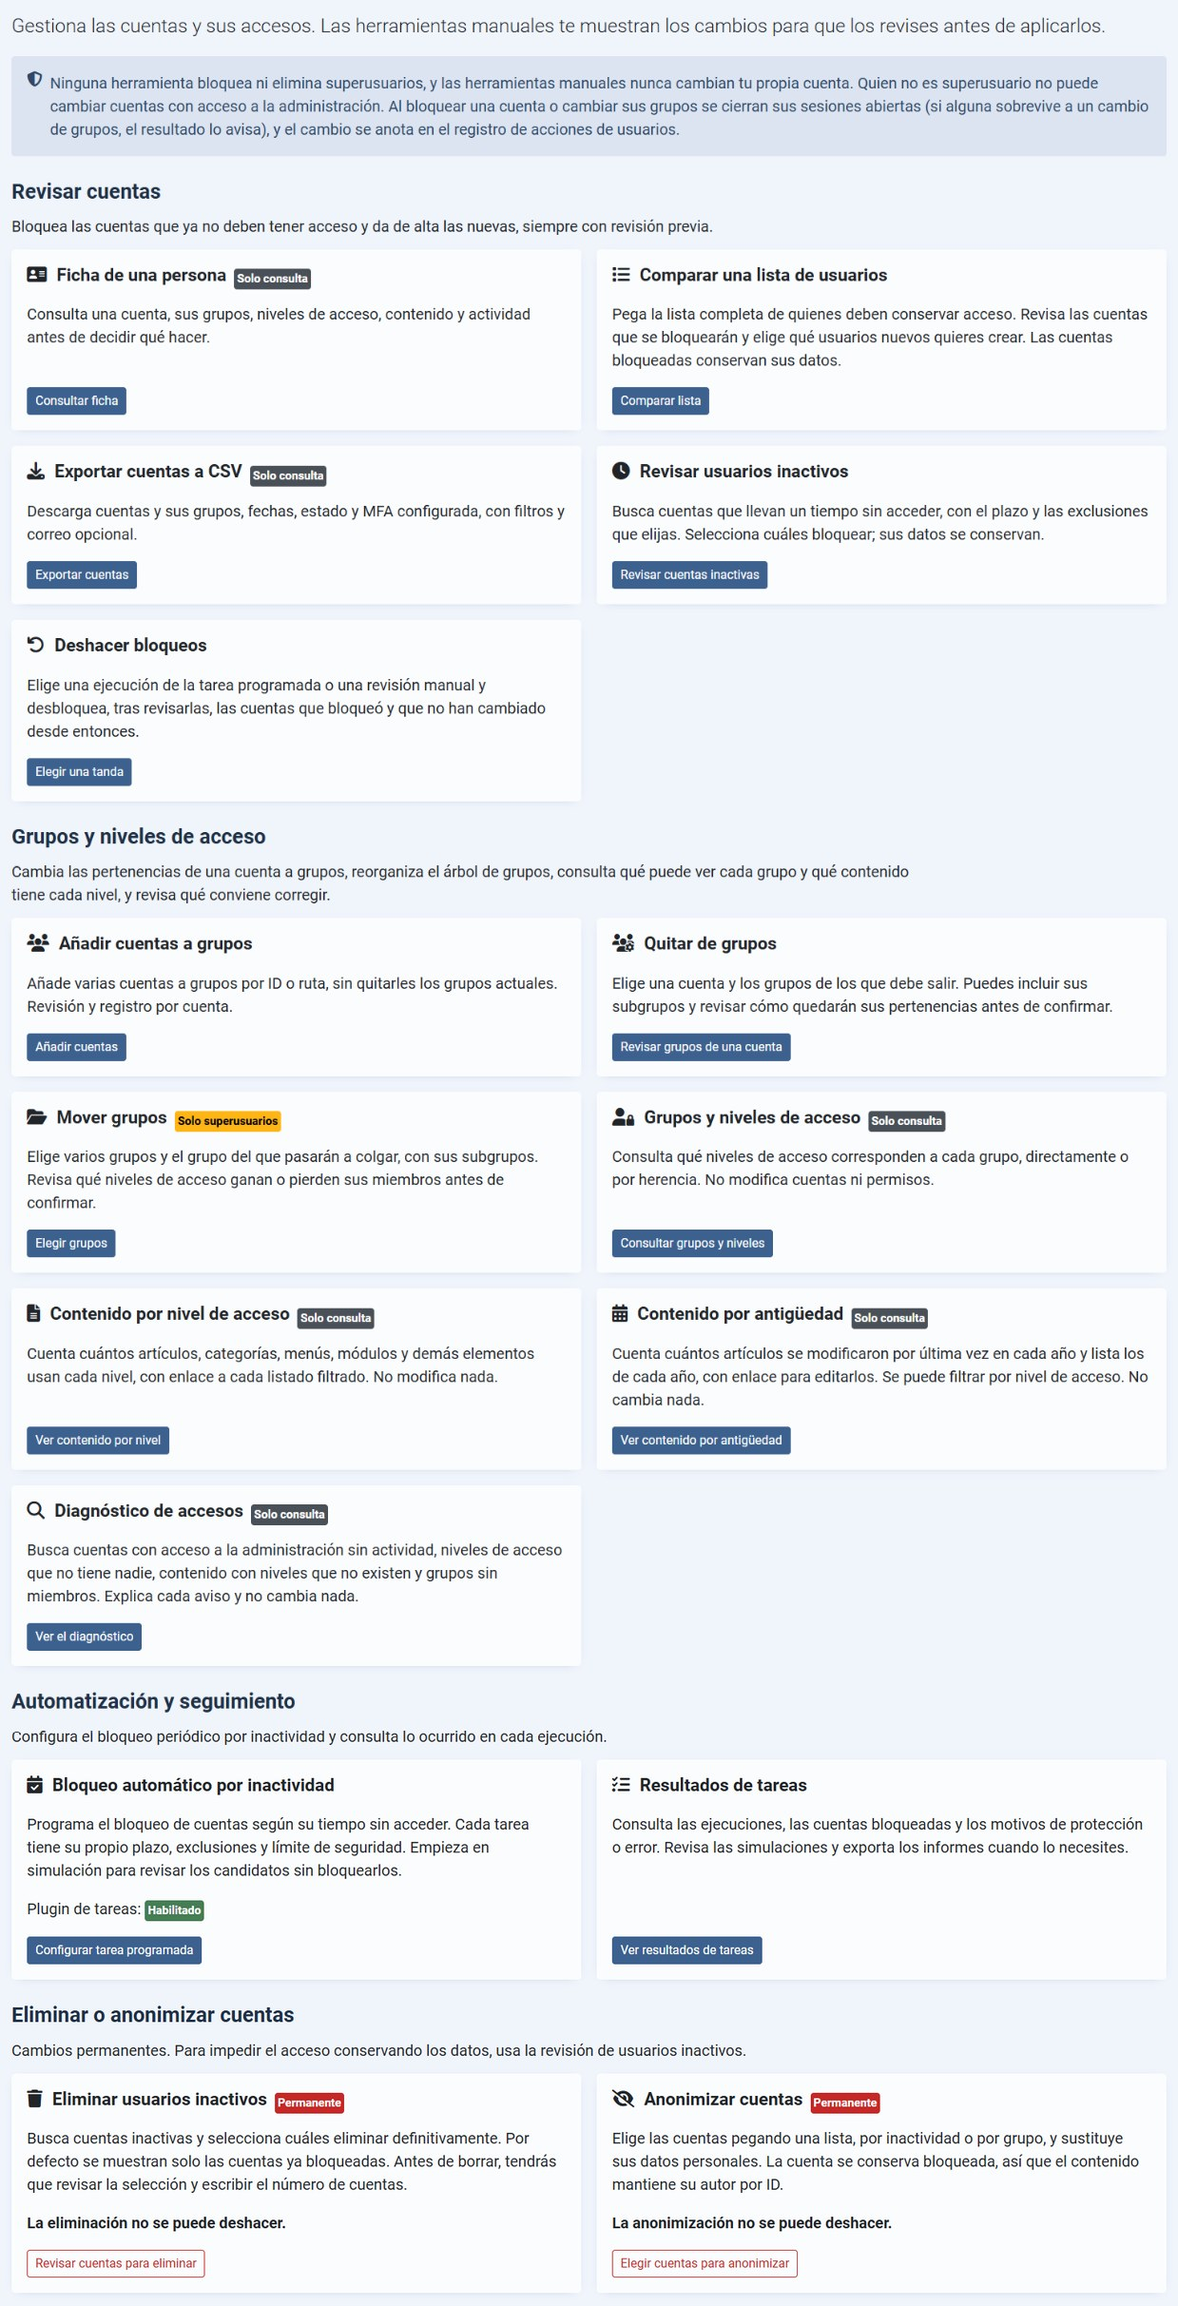
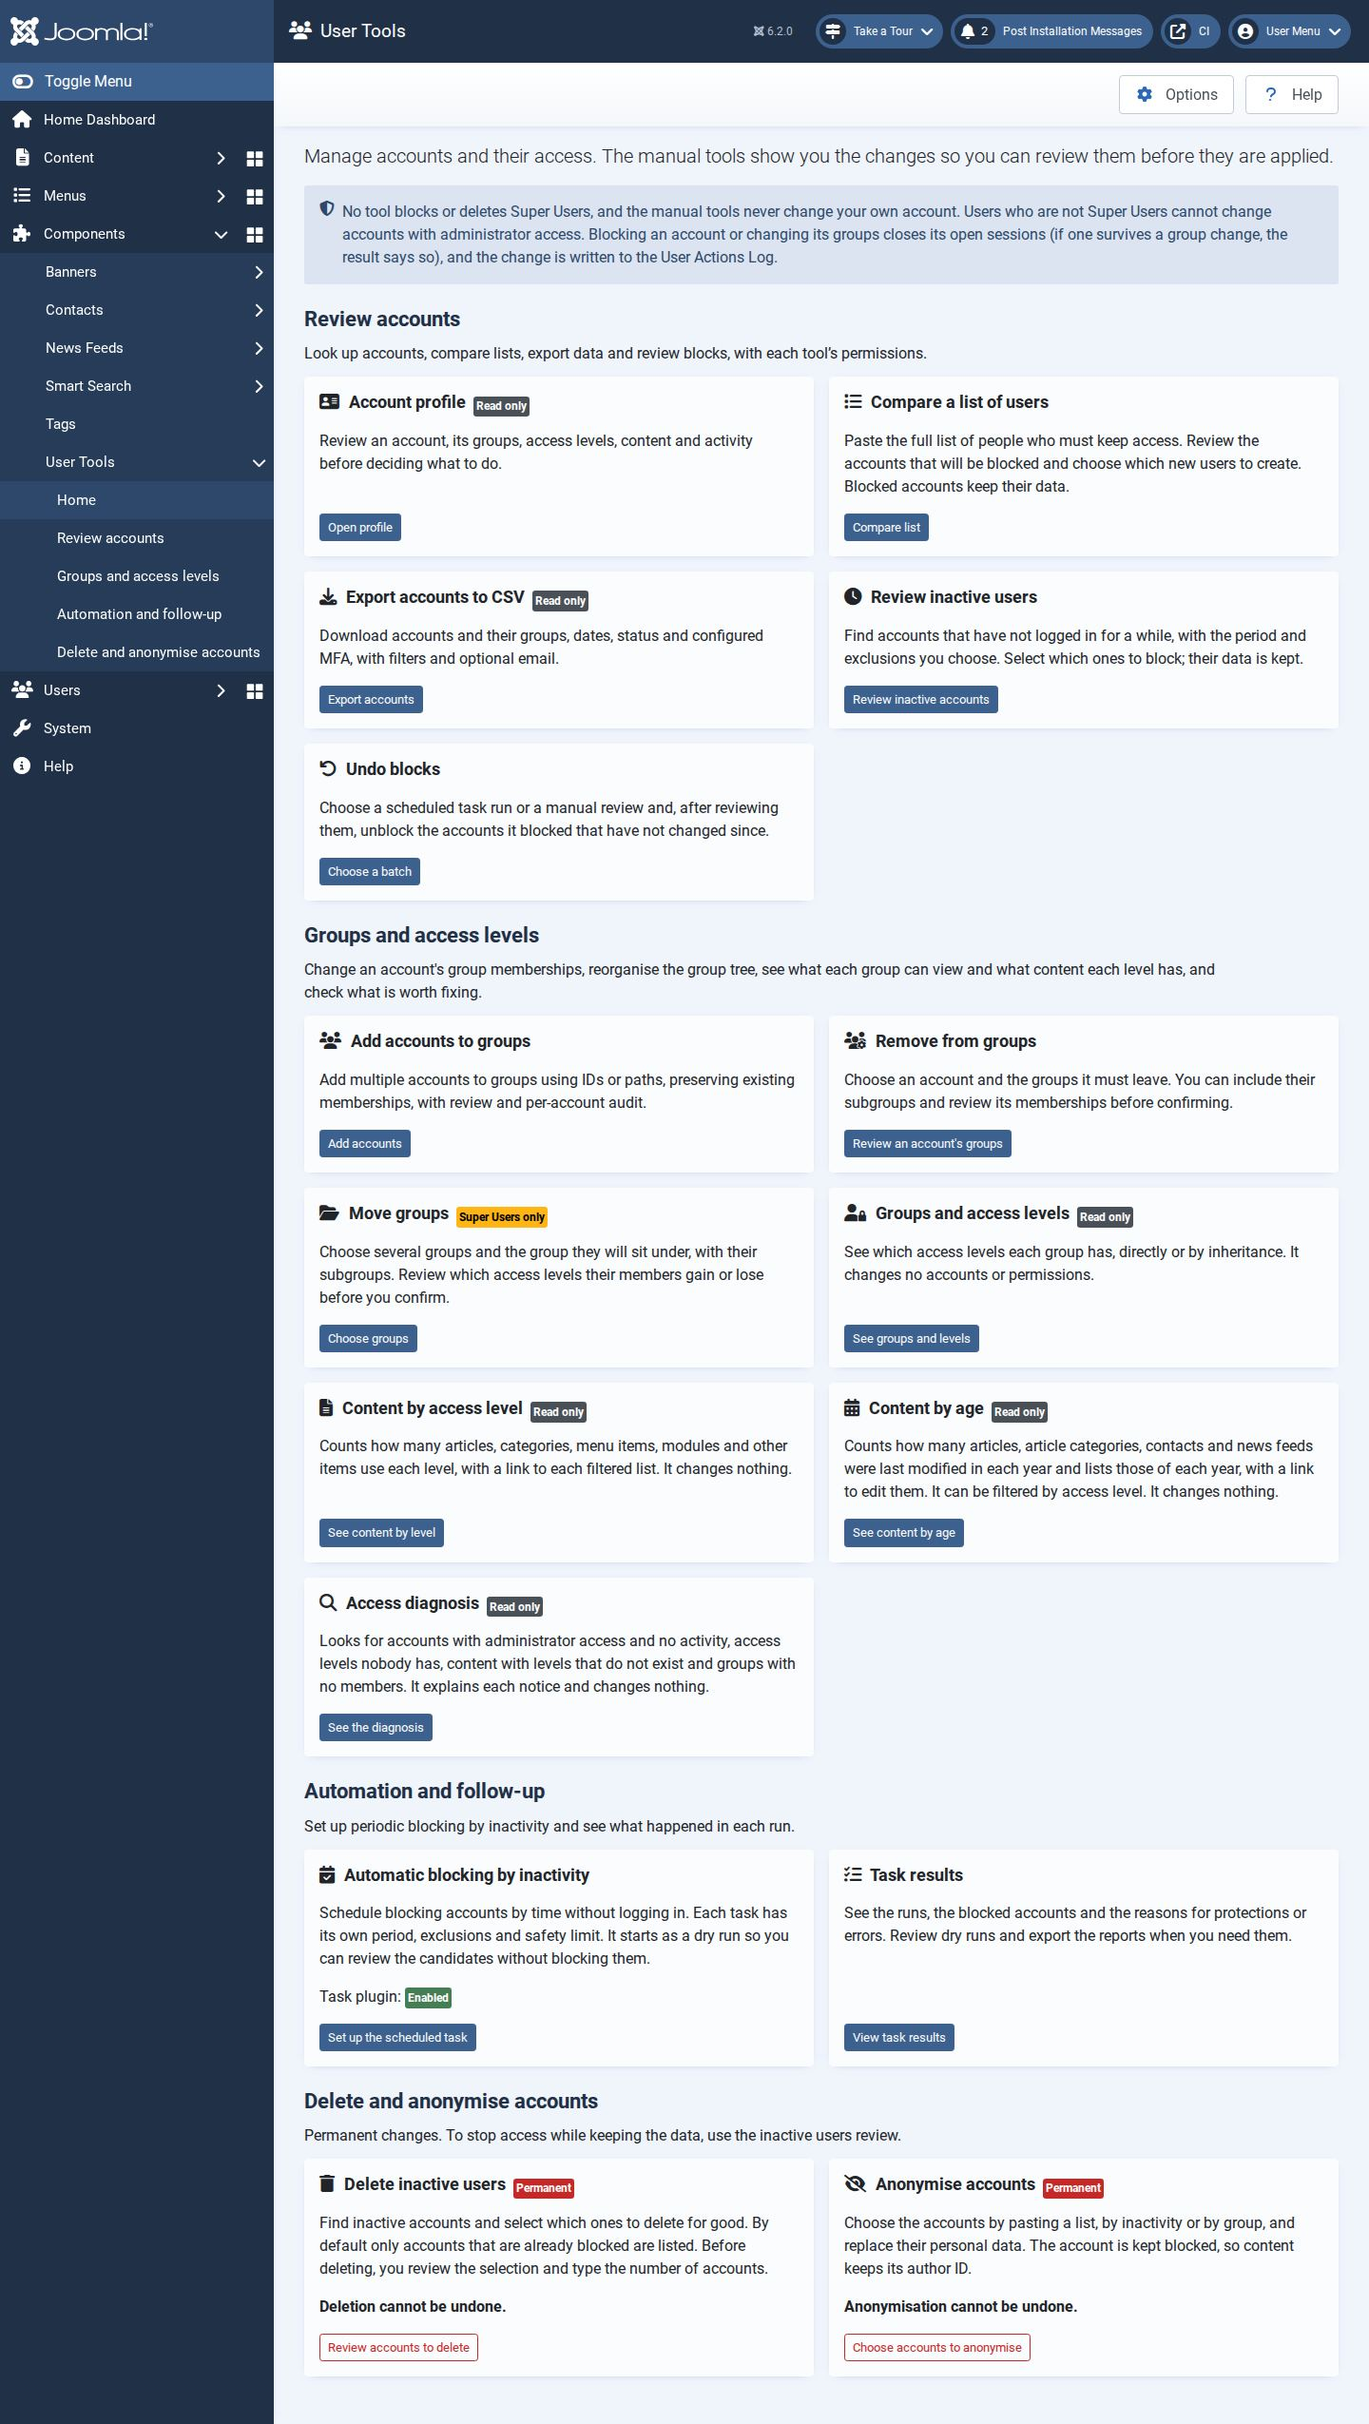
Refresh real navigation captures and bilingual galleries

diff --git a/docs/capturas.md b/docs/capturas.md
@@ -4,9 +4,21 @@
 
 [Volver al README](../README.md)
 
-Estas capturas compartidas muestran la interfaz en español en Joomla 6.2.0. Cada pie indica la versión en que se hizo la captura cuando es reciente: las de eliminación son de 2026.10.5, las de quitar de grupos de 2026.10.9 y 2026.10.16, la revisión de la comparación y la de grupos y niveles de acceso de 2026.10.11, la de contenido por nivel de acceso de 2026.10.12, las de diagnóstico de accesos y la lista de contenido por antigüedad de 2026.10.15, las de mover grupos de 2026.10.16, las del panel de Usuarios, añadir cuentas a grupos, exportar cuentas y deshacer bloqueos de 2026.10.19, la portada y las de la ficha de una persona de 2026.10.20, y la tabla de contenido por antigüedad con sus cuatro tipos y el recorrido guiado, de la versión siguiente a 2026.10.20. Las que no indican versión corresponden a una interfaz anterior y pueden diferir de la actual. Para las opciones y el comportamiento vigentes, consulta el [README](../README.md) y las [preguntas frecuentes](../FAQ.md).
+Las capturas anteriores muestran la interfaz en español en Joomla 6.2.0. Cada pie indica la versión en que se hizo la captura cuando es reciente: las de eliminación son de 2026.10.5, las de quitar de grupos de 2026.10.9 y 2026.10.16, la revisión de la comparación y la de grupos y niveles de acceso de 2026.10.11, la de contenido por nivel de acceso de 2026.10.12, las de diagnóstico de accesos y la lista de contenido por antigüedad de 2026.10.15, las de mover grupos de 2026.10.16, las de añadir cuentas a grupos, exportar cuentas y deshacer bloqueos de 2026.10.19, las de la ficha de una persona de 2026.10.20, y la tabla de contenido por antigüedad con sus cuatro tipos y el recorrido guiado, de la versión siguiente a 2026.10.20. Las que no indican versión corresponden a una interfaz anterior y pueden diferir de la actual. Para las opciones y el comportamiento vigentes, consulta el [README](../README.md) y las [preguntas frecuentes](../FAQ.md).
 
-![Portada de User Tools agrupada en secciones: revisar cuentas (con la ficha de una persona, la exportación y deshacer bloqueos), grupos y niveles de acceso, automatización y seguimiento, y eliminar o anonimizar cuentas (2026.10.20)](screenshots/01-portada.jpg)
+La portada, las cuatro categorías y el panel de Usuarios se capturaron el **31 de octubre de 2026** en un Joomla 6.2.0 desechable de CI, con **interfaz en inglés** y datos ficticios, sobre los cambios de la PR #57 posteriores a 2026.10.20. Las mismas imágenes se comparten en ambas galerías. No representan una nueva versión publicada.
+
+La CI comprueba el orden de teclado, el despliegue del menú y la categoría activa. Se revisaron las imágenes con texto al 200 %, preferencia oscura y anchura de 390 px. Las tarjetas caben a 390 px, pero la cabecera general de Joomla genera un ancho de documento de 600 px. No se ha alterado la plantilla para ocultarlo. Esto no acredita conformidad WCAG ni sustituye pruebas con lector de pantalla.
+
+![Portada completa y menú nativo de User Tools, con las cuatro categorías y todas las herramientas permitidas (inglés, PR #57)](screenshots/01-portada.jpg)
+
+![Revisar cuentas: categoría activa y sus cinco herramientas (inglés, PR #57)](screenshots/30-menu-cuentas.jpg)
+
+![Grupos y niveles de acceso: categoría activa y sus siete herramientas (inglés, PR #57)](screenshots/31-menu-grupos.jpg)
+
+![Automatización y seguimiento: configuración de tareas y resultados (inglés, PR #57)](screenshots/32-menu-automatizacion.jpg)
+
+![Eliminar y anonimizar cuentas: advertencias permanentes visibles y categoría activa (inglés, PR #57)](screenshots/33-menu-eliminacion.jpg)
 
 ![Ficha de una persona: datos de la cuenta, grupos en su árbol con el grupo intermedio, niveles de acceso efectivos y por qué, contenido creado, registro de acciones reciente y enlaces a las herramientas (2026.10.20)](screenshots/28-ficha-persona.jpg)
 
@@ -50,7 +62,7 @@ Estas capturas compartidas muestran la interfaz en español en Joomla 6.2.0. Cad
 
 ![Detalle de un informe de tarea](screenshots/10-informe-tarea.jpg)
 
-![Módulo User Tools en el panel de Usuarios: cuentas para revisar con enlace a su revisión, tareas con su modo, resultado y fechas, y accesos directos a las herramientas permitidas (2026.10.19)](screenshots/13-panel-usuarios.jpg)
+![Panel de Usuarios con resumen de cuentas, tareas y accesos agrupados por el catálogo compartido (inglés, PR #57)](screenshots/13-panel-usuarios.jpg)
 
 ![Grupos y niveles de acceso: matriz de grupos por nivel, exportación CSV y resumen por nivel (2026.10.11)](screenshots/14-grupos-niveles.jpg)
 

diff --git a/docs/screenshots.en.md b/docs/screenshots.en.md
@@ -4,9 +4,21 @@
 
 [Back to the README](../README.en.md)
 
-These shared screenshots show the Spanish interface on Joomla 6.2.0. Each caption gives the version the screenshot was taken with when it is recent: deletion in 2026.10.5, remove from groups in 2026.10.9 and 2026.10.16, the comparison review and groups and access levels in 2026.10.11, content by access level in 2026.10.12, access diagnosis and the content by age list in 2026.10.15, move groups in 2026.10.16, the Users dashboard, add accounts to groups, export accounts and undo blocks in 2026.10.19, the home screen and the account profile in 2026.10.20, and the content by age table with its four kinds and the guided tour in the version after 2026.10.20. Screenshots without a version show an older interface and may differ from the current one. For current options and behaviour, see the [README](../README.en.md) and [FAQ](../FAQ.en.md).
+The earlier screenshots show the Spanish interface on Joomla 6.2.0. Each caption gives the version the screenshot was taken with when it is recent: deletion in 2026.10.5, remove from groups in 2026.10.9 and 2026.10.16, the comparison review and groups and access levels in 2026.10.11, content by access level in 2026.10.12, access diagnosis and the content by age list in 2026.10.15, move groups in 2026.10.16, add accounts to groups, export accounts and undo blocks in 2026.10.19, the account profile in 2026.10.20, and the content by age table with its four kinds and the guided tour in the version after 2026.10.20. Screenshots without a version show an older interface and may differ from the current one. For current options and behaviour, see the [README](../README.en.md) and [FAQ](../FAQ.en.md).
 
-![User Tools home screen grouped into sections: review accounts (with the account profile, export and undo blocks), groups and access levels, automation and monitoring, and delete or anonymise accounts (2026.10.20, Spanish interface)](screenshots/01-portada.jpg)
+The home screen, four categories and Users dashboard were captured on **31 October 2026** on the disposable Joomla 6.2.0 CI site, with the **English interface** and fictional data, using the changes in PR #57 after 2026.10.20. Both galleries share these images. They do not represent a new published release.
+
+CI checks keyboard order, menu expansion and the active category. Images were inspected at 200% text size, with a dark preference and at 390 px width. The cards fit at 390 px, but Joomla’s overall header produces a document width of 600 px. The template has not been altered to hide this. This does not establish WCAG conformance or replace screen-reader testing.
+
+![Complete User Tools home and native menu, with four categories and all permitted tools (English, PR #57)](screenshots/01-portada.jpg)
+
+![Review accounts: active category and its five tools (English, PR #57)](screenshots/30-menu-cuentas.jpg)
+
+![Groups and access levels: active category and its seven tools (English, PR #57)](screenshots/31-menu-grupos.jpg)
+
+![Automation and follow-up: task configuration and results (English, PR #57)](screenshots/32-menu-automatizacion.jpg)
+
+![Delete and anonymise accounts: visible permanent warnings and active category (English, PR #57)](screenshots/33-menu-eliminacion.jpg)
 
 ![Account profile: account details, groups in their tree with the intermediate group, effective access levels and why, authored content, recent action log and links to the tools (2026.10.20, Spanish interface)](screenshots/28-ficha-persona.jpg)
 
@@ -50,7 +62,7 @@ These shared screenshots show the Spanish interface on Joomla 6.2.0. Each captio
 
 ![Task report details](screenshots/10-informe-tarea.jpg)
 
-![User Tools module on the Users dashboard: accounts to review with a link to their review, tasks with their mode, result and dates, and shortcuts to the tools you may use (2026.10.19, Spanish interface)](screenshots/13-panel-usuarios.jpg)
+![Users dashboard with account summary, tasks and shortcuts grouped by the shared catalogue (English, PR #57)](screenshots/13-panel-usuarios.jpg)
 
 ![Groups and access levels: groups by level matrix, CSV export and summary by level (2026.10.11, Spanish interface)](screenshots/14-grupos-niveles.jpg)
 

diff --git a/README.md b/README.md
@@ -102,6 +102,8 @@ Al abrir una herramienta, revisión, resultado o informe, su categoría permanec
 
 El paquete incluye **Sistema - User Tools**, que integra el filtrado y la categoría activa con el menú de Joomla. Se habilita al instalarlo por primera vez, también al actualizar desde una versión sin ese plugin. Si después lo deshabilitas, las siguientes actualizaciones respetan tu decisión y la portada avisa. Para recuperar el filtrado y la categoría activa, habilítalo en **Sistema → Gestionar → Plugins**. Los permisos de las pantallas siguen comprobándose en el servidor.
 
+Las [capturas reales de la navegación](docs/capturas.md) muestran la portada, las cuatro categorías y el panel en inglés, tomadas en el Joomla desechable de CI.
+
 ## Ficha de una persona
 
 Desde la portada, abre **Ficha de una persona** y busca por usuario o correo electrónico, sin distinguir mayúsculas. También se puede abrir una cuenta por su ID. La consulta requiere el permiso propio `usertools.profile` y no guarda cambios en la cuenta, sus grupos ni los borradores de otras herramientas.
@@ -259,7 +261,7 @@ Las cifras usan exactamente las mismas reglas que las herramientas, así que coi
 
 El módulo respeta los permisos: solo lo ve quien puede acceder a User Tools, las cifras solo aparecen a quien tiene permiso de revisar o eliminar inactivos, y las tareas solo a quien puede ver sus resultados. Se configura como cualquier módulo de administración (Contenido → Módulos del sitio de administración, «User Tools»): puedes moverlo a otro panel, cambiarle el título o despublicarlo. Las actualizaciones no vuelven a colocarlo si lo has movido o despublicado.
 
-![Módulo User Tools en el panel de Usuarios](docs/screenshots/13-panel-usuarios.jpg)
+![Módulo User Tools en el panel de Usuarios (interfaz en inglés)](docs/screenshots/13-panel-usuarios.jpg)
 
 ## Módulo de grupos de usuarios en el sitio
 
@@ -462,6 +464,7 @@ Estructura:
 - `admin/src/Service/`: lógica de dominio compartida con el plugin.
 - `media/`: CSS y JS cargados con el gestor de recursos web (`joomla.asset.json`).
 - `plugins/task/usertools/`: plugin de tareas.
+- `plugins/system/usertools/`: integración del menú por categorías y permisos.
 - `modules/mod_usertools/`: módulo de resumen del panel de Usuarios.
 - `modules/mod_usertools_groups/`: módulo del sitio que lista grupos y miembros.
 - `package/`: manifiesto del paquete, script de instalación e idiomas.
@@ -477,7 +480,7 @@ JOOMLA_PATH=/ruta/a/joomla-6 vendor/bin/phpstan analyse   # análisis estático,
 
 La prueba de extremo a extremo `tests/integration/run.php` recorre todos los flujos contra un Joomla 6 real y desechable: comparación, altas por correo hasta elegir la contraseña y entrar, contraseñas temporales, permisos delegados, revisión y eliminación de inactivos, tarea con límite de seguridad, informes, CSV, registro de acciones y el módulo de grupos del sitio. Instrucciones de uso en la cabecera del fichero; usa `tests/integration/smtp-sink.php` como servidor de correo de pruebas.
 
-GitHub Actions ejecuta en cada push y pull request las pruebas unitarias (PHP 8.3 y 8.4), JavaScript, PHPStan y la prueba de extremo a extremo con PostgreSQL y con MySQL.
+GitHub Actions ejecuta en cada push y pull request las pruebas unitarias, JavaScript, PHPStan y la prueba de extremo a extremo con PostgreSQL y MySQL en PHP 8.3 y 8.4. En PHP 8.3 prueba una instalación nueva; en PHP 8.4 instala primero el paquete publicado 2026.10.20 y lo actualiza. También comprueba actualizaciones repetidas, retirada de permisos y desinstalación sin enlaces ni recorridos huérfanos.
 
 ## Construcción y publicación
 

diff --git a/README.en.md b/README.en.md
@@ -102,6 +102,8 @@ The category stays marked in the menu when opening a tool, review, result or rep
 
 The package includes **System - User Tools**, which integrates permission filtering and the active category with Joomla's menu. It is enabled when first installed, including upgrades from a version without this plugin. If you subsequently disable it, later updates respect that choice and the home screen displays a notice. Enable it under **System → Manage → Plugins** to restore filtering and active categories. Screen permissions are still enforced on the server.
 
+The [real navigation screenshots](docs/screenshots.en.md) show the home screen, four categories and dashboard in English, captured on the disposable Joomla CI site.
+
 ## Account profile
 
 From the home screen, open **Account profile** and search by username or email address, case-insensitively. An account can also be opened by ID. This requires the dedicated `usertools.profile` permission and never saves changes to the account, its groups or other tools’ drafts.
@@ -259,9 +261,9 @@ Counts use the same rules as the tools, so they match what you see when opening 
 
 The module respects permissions: only users with access to User Tools can see it; counts require inactivity review or deletion permission, and tasks require task-results permission. Configure it like any administrator module (Content → Administrator Modules, “User Tools”): move it to another dashboard, rename or unpublish it. Updates do not reposition a moved or unpublished module.
 
-The shared screenshots show the Spanish interface.
+This dashboard screenshot shows the English interface. Earlier screenshots elsewhere retain the Spanish interface.
 
-![User Tools module on the Users dashboard](docs/screenshots/13-panel-usuarios.jpg)
+![User Tools module on the Users dashboard (English interface)](docs/screenshots/13-panel-usuarios.jpg)
 
 ## User groups module on the site
 
@@ -464,6 +466,7 @@ Structure:
 - `admin/src/Service/`: domain logic shared with the plugin.
 - `media/`: CSS and JS loaded through Web Asset Manager (`joomla.asset.json`).
 - `plugins/task/usertools/`: task plugin.
+- `plugins/system/usertools/`: category and permission integration with the administrator menu.
 - `modules/mod_usertools/`: Users dashboard summary module.
 - `modules/mod_usertools_groups/`: site module that lists groups and members.
 - `package/`: package manifest, installation script and languages.
@@ -479,7 +482,7 @@ JOOMLA_PATH=/path/to/joomla-6 vendor/bin/phpstan analyse   # static analysis, le
 
 The end-to-end test `tests/integration/run.php` exercises the flows against a real disposable Joomla 6 site: comparison, emailed password setup through login, temporary passwords, delegated permissions, inactivity review and deletion, task safety limit, reports, CSV, action logging and the site groups module. See the file header for instructions; use `tests/integration/smtp-sink.php` as the test mail server.
 
-GitHub Actions runs unit tests (PHP 8.3 and 8.4), JavaScript, PHPStan and end-to-end tests with PostgreSQL and MySQL on each push and pull request.
+GitHub Actions runs unit tests, JavaScript, PHPStan and end-to-end tests with PostgreSQL and MySQL on PHP 8.3 and 8.4 on each push and pull request. PHP 8.3 tests a fresh installation; PHP 8.4 first installs the published 2026.10.20 package and upgrades it. Repeated updates, permission withdrawal and uninstallation without orphan links or tours are also checked.
 
 ## Building and publishing
 
